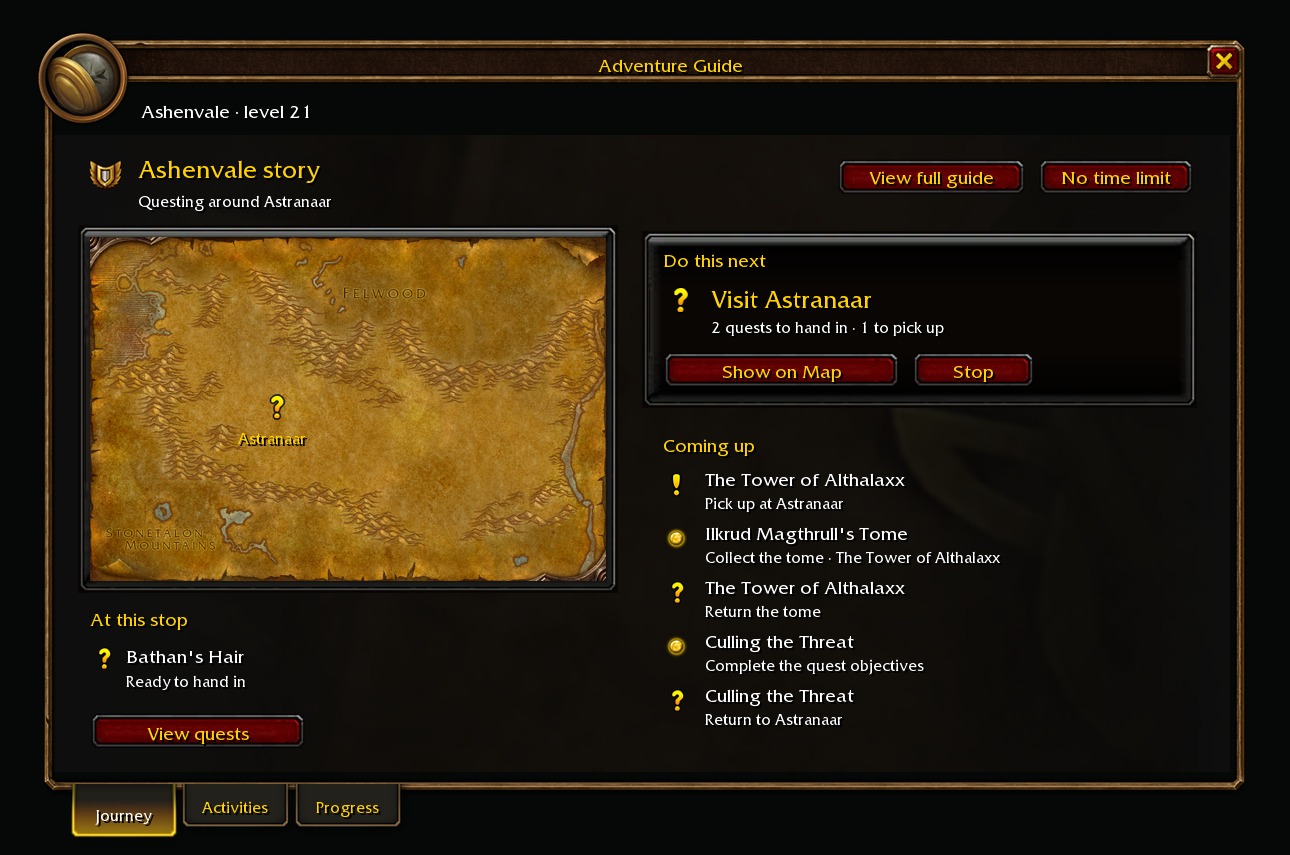
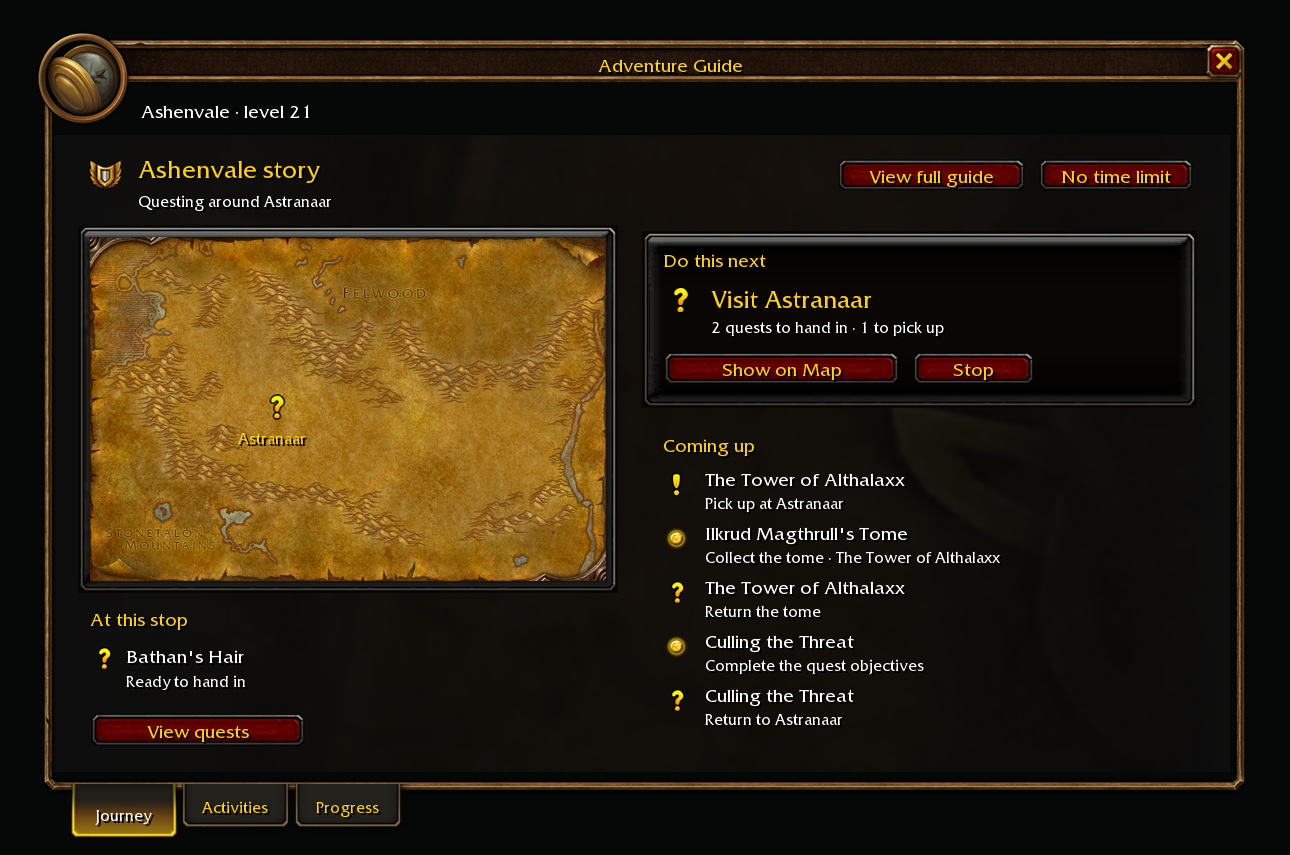
fix(guide): settle unsupported loot and cover left-column bounds
Cache definitive missing dungeon loot while retrying transient provider
hints. Cover integrated dungeon controls and provider invalidation.

Check the proposal's quest action bounds and use runtime button heights.

Changed region(s): [[0.6512, 0.1825, 0.9302, 0.2433], [0.5271, 0.3953, 0.8062, 0.4561], [0.062, 0.8515, 0.2171, 0.8819]]

diff --git a/tools/journey_preview.py b/tools/journey_preview.py
@@ -32,21 +32,25 @@ MAP_RIM = 8
 MAP = Rect(60, 158, 344, 344 / MAP_ASPECT)
 MAP_FRAME = Rect(MAP.x - MAP_RIM, MAP.y - MAP_RIM, MAP.width + 2 * MAP_RIM, MAP.height + 2 * MAP_RIM)
 CURRENT = Rect(428, 154, 370, 118)
-BUTTONS = (Rect(442, 234, 158, 24), Rect(608, 234, 82, 24))
+BUTTONS = (Rect(442, 234, 158, 22), Rect(608, 234, 82, 22))
+QUESTS = Rect(60, 405, 344, 94)
+QUEST_BUTTON = Rect(60, 475, 144, 22)
 UPCOMING = tuple(Rect(442, 312 + i * 36, 342, 32) for i in range(5))
 PAGE = Rect(48, 94, 760, 416)
 
 
-def validate_layout(map_rect=MAP, map_frame=MAP_FRAME, buttons=BUTTONS, upcoming=UPCOMING):
+def validate_layout(map_rect=MAP, map_frame=MAP_FRAME, buttons=BUTTONS, upcoming=UPCOMING, quest_button=QUEST_BUTTON):
     if map_frame.inset(MAP_RIM) != map_rect:
         raise ValueError("Map must align with the frame's inner edges")
     if abs(map_rect.width / map_rect.height - MAP_ASPECT) > 0.001:
         raise ValueError("Map must preserve its full native aspect")
-    for rect in (map_frame, CURRENT, *upcoming):
+    for rect in (map_frame, CURRENT, QUESTS, *upcoming):
         if not PAGE.contains(rect):
             raise ValueError("Content must fit inside the page")
+    if not QUESTS.contains(quest_button):
+        raise ValueError("Quest action must fit inside the left column")
     for button in buttons:
-        if button.height != 24 or not CURRENT.inset(12).contains(button):
+        if button.height != 22 or not CURRENT.inset(12).contains(button):
             raise ValueError("Buttons must have a consistent height and fit inside the current step")
     if buttons[1].x - buttons[0].x - buttons[0].width != 8:
         raise ValueError("Button gap must be eight pixels")
@@ -102,8 +106,8 @@ def render(output):
     icon("questlog-questtypeicon-story", 58, 104, 25)
     text(92, 103, "Ashenvale story", "GameFontNormalLarge")
     text(92, 128, "Questing around Astranaar", "GameFontHighlightSmall")
-    w.ui_panel_button(c, 558, 105, 126, 24, "View full guide")
-    w.ui_panel_button(c, 692, 105, 104, 24, "No time limit")
+    w.ui_panel_button(c, 558, 105, 126, 22, "View full guide")
+    w.ui_panel_button(c, 692, 105, 104, 22, "No time limit")
     frame(MAP_FRAME)
     art = w.map_art(ui, 1440)
     validate_art(MAP.width, MAP.height, art.width, art.height)
@@ -115,7 +119,7 @@ def render(output):
     icon("QuestTurnin", 60, 430)
     text(84, 430, "Bathan's Hair")
     text(84, 448, "Ready to hand in", "GameFontHighlightSmall")
-    w.ui_panel_button(c, 60, 475, 144, 24, "View quests")
+    w.ui_panel_button(c, QUEST_BUTTON.x, QUEST_BUTTON.y, QUEST_BUTTON.width, QUEST_BUTTON.height, "View quests")
     frame(CURRENT)
     text(442, 166, "Do this next", "GameFontNormal")
     icon("QuestTurnin", 442, 189, 22)

diff --git a/tools/journey_preview_test.py b/tools/journey_preview_test.py
@@ -24,6 +24,10 @@ class JourneyLayoutTest(unittest.TestCase):
         with self.assertRaisesRegex(ValueError, "fit inside"):
             preview.validate_layout(buttons=(replace(preview.BUTTONS[0], width=400), preview.BUTTONS[1]))
 
+    def test_quest_action_overflow(self):
+        with self.assertRaisesRegex(ValueError, "left column"):
+            preview.validate_layout(quest_button=replace(preview.QUEST_BUTTON, y=505))
+
     def test_empty_column(self):
         with self.assertRaisesRegex(ValueError, "available column"):
             preview.validate_layout(upcoming=preview.UPCOMING[:3])
